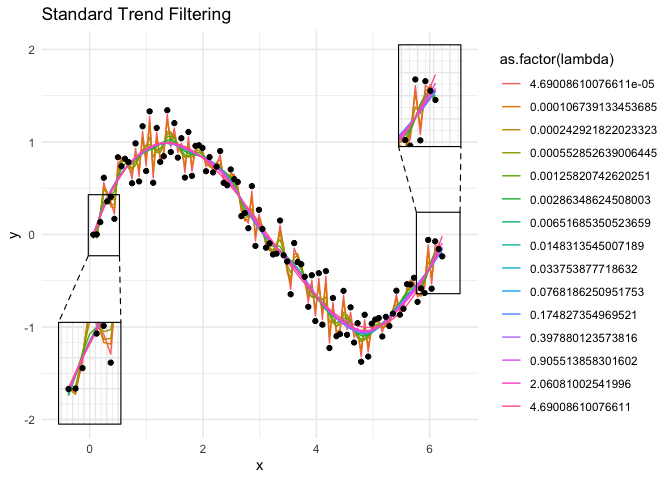
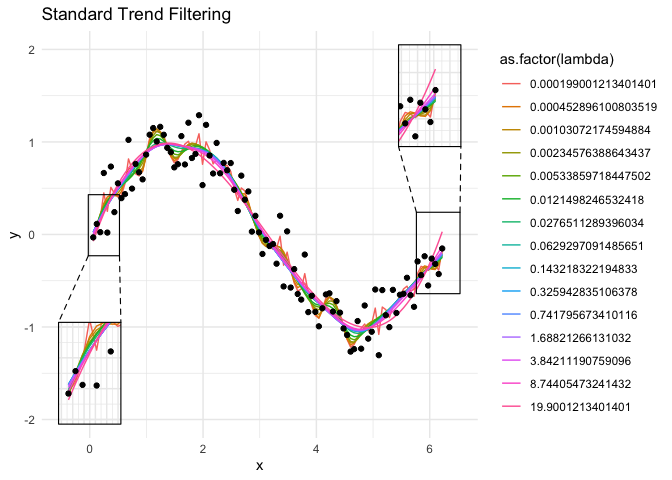
update README

diff --git a/README.md b/README.md
@@ -30,6 +30,39 @@ library(ggplot2)
 x <- 1:100 / 101 * 2 * pi
 y <- sin(x) + .2 * rnorm(100)
 out <- trendfilter(y, x, nlambda = 15)
+#> Warning: Using `<-` as argument is often a mistake.
+#> Do you need to use `=` to match an argument?
+#> 
+#> If you really want to use `<-`, please wrap in braces:
+#> 
+#>   # Bad:
+#>   fn(a <- 1)
+#> 
+#>   # Good:
+#>   fn(a = 1)       # Match 1 to parameter `a`
+#>   fn({ a <- 1 })  # Assign 1 to variable `a`
+#> Warning: Using `<-` as argument is often a mistake.
+#> Do you need to use `=` to match an argument?
+#> 
+#> If you really want to use `<-`, please wrap in braces:
+#> 
+#>   # Bad:
+#>   fn(a <- 1)
+#> 
+#>   # Good:
+#>   fn(a = 1)       # Match 1 to parameter `a`
+#>   fn({ a <- 1 })  # Assign 1 to variable `a`
+#> Warning: Using `<-` as argument is often a mistake.
+#> Do you need to use `=` to match an argument?
+#> 
+#> If you really want to use `<-`, please wrap in braces:
+#> 
+#>   # Bad:
+#>   fn(a <- 1)
+#> 
+#>   # Good:
+#>   fn(a = 1)       # Match 1 to parameter `a`
+#>   fn({ a <- 1 })  # Assign 1 to variable `a`
 plot(out) +
   geom_point(data = data.frame(x = x, y = y), aes(x, y), color = "black")
 ```
@@ -38,12 +71,13 @@ plot(out) +
 
 ## Boundary Condition Option
 
-`boundary_condition = TRUE` enables boundary correction using Newton
-polynomials and divided differences. `left_boundary_m` and
-`right_boundary_m` determine how the boundary conditions are applied
-(order of polynomial). By default, `left_boundary_m` =
-`right_boundary_m` = `round(k/2)`, which simplifies to (k+1)/2 when k is
-odd (natural spline at the boundary).
+None empty `left_boundary_m` and `right_boundary_m` enables boundary
+correction using Newton polynomials and divided differences.
+`left_boundary_m` and `right_boundary_m` determine how the boundary
+conditions are applied (order of polynomial). By default,
+`left_boundary_m` = `right_boundary_m` = `0`. If set to ‘natural’, we
+use `round_up(k/2)`, which simplifies to (k+1)/2 when k is odd (natural
+spline at the boundary).
 
 ``` r
 #remotes::install_github("hughjonesd/ggmagnify")
@@ -64,7 +98,7 @@ df1 <- data.frame(
 )
 
 # Trend filtering with natural spline boundary conditions
-out2 <- trendfilter(y, x, nlambda = 15, boundary_condition = TRUE)
+out2 <- trendfilter(y, x, nlambda = 15, left_boundary_m = "natural", right_boundary_m = "natural")
 df2 <- data.frame(
   x = 1:100 / 101 * 2 * pi, 
   y = as.vector(out2$theta), 
